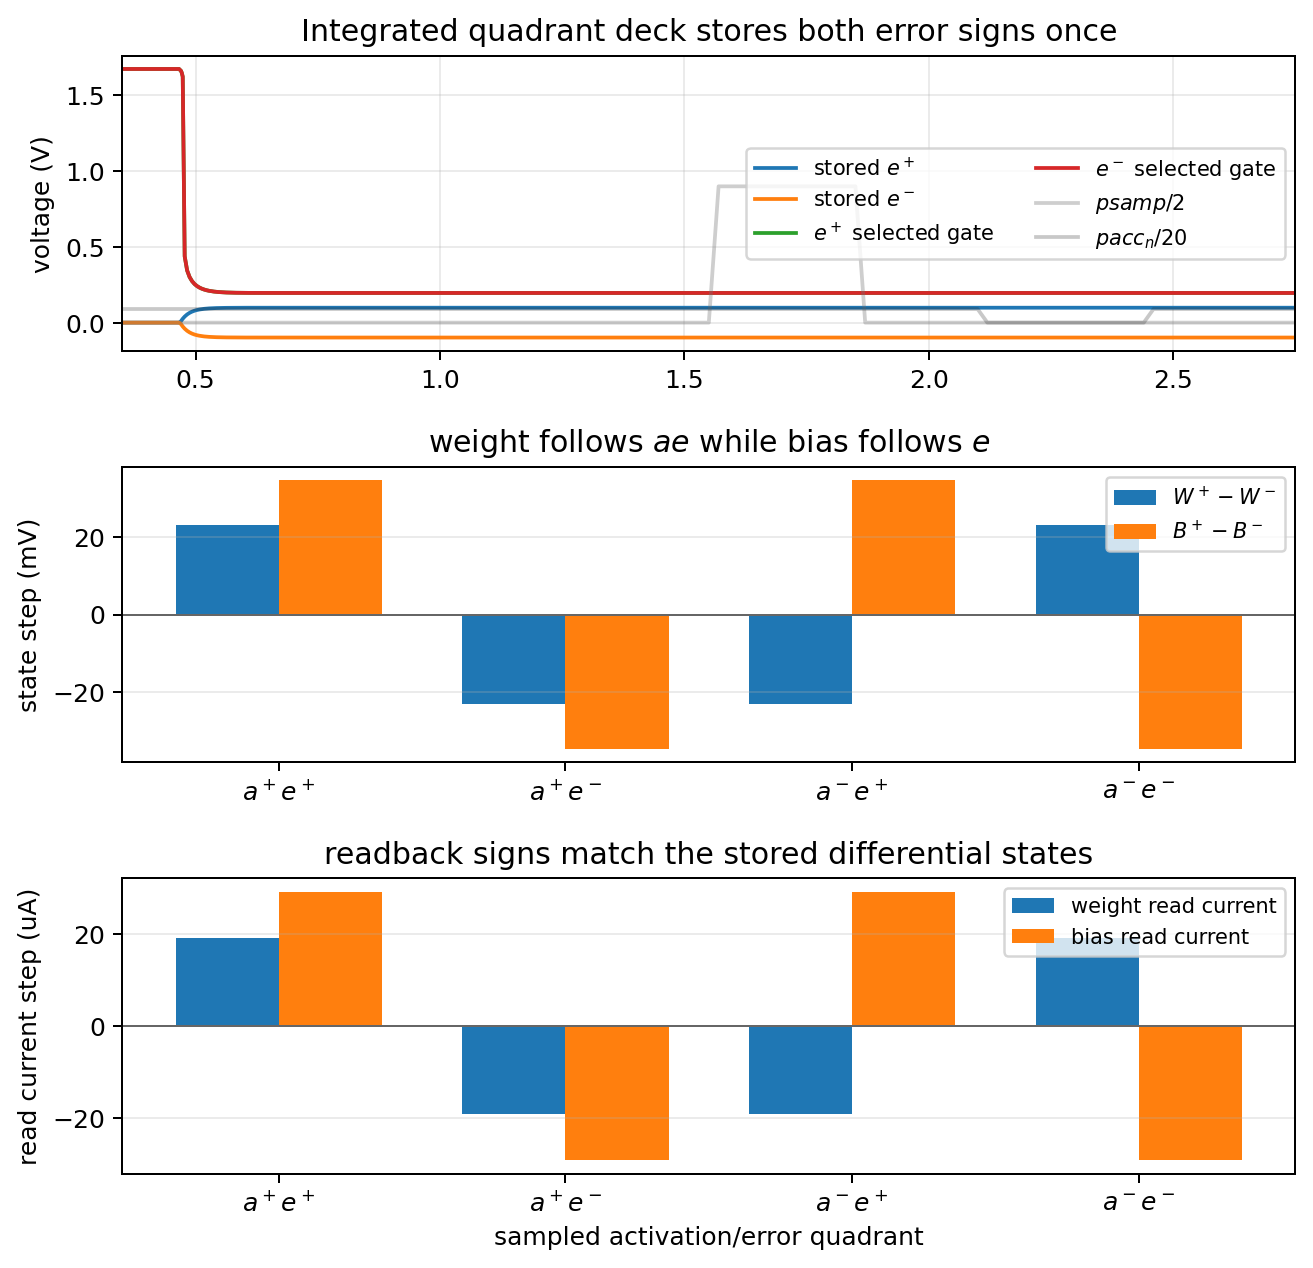
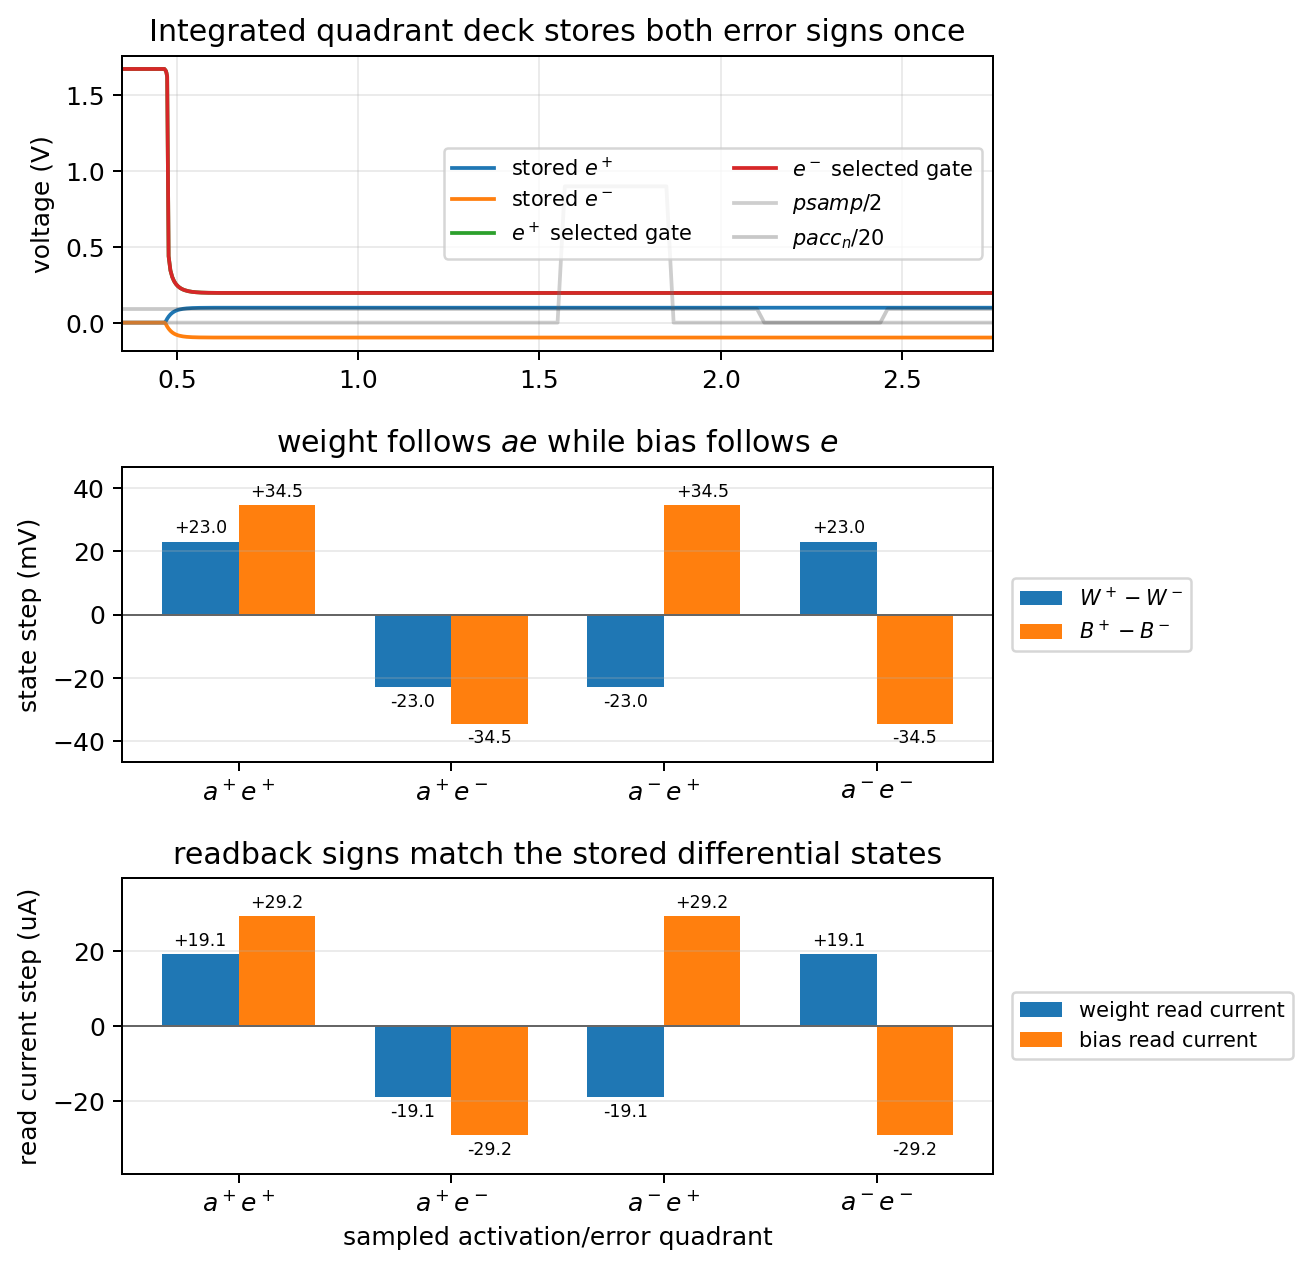
Clarify integrated quadrant plots

diff --git a/spice/run_mos_cell_characterization.py b/spice/run_mos_cell_characterization.py
@@ -6266,25 +6266,33 @@ quit
     hyz_axes[0].set_title("Integrated quadrant deck stores both error signs once")
     hyz_axes[0].grid(True, alpha=0.25)
     hyz_axes[0].legend(loc="center right", ncol=2, fontsize="small")
-    hyz_axes[1].bar(hyz_x - 0.18, 1e3 * hyz_weight_signed, width=0.36, label="$W^+ - W^-$")
-    hyz_axes[1].bar(hyz_x + 0.18, 1e3 * hyz_bias_signed, width=0.36, label="$B^+ - B^-$")
+    hyz_weight_bars = hyz_axes[1].bar(hyz_x - 0.18, 1e3 * hyz_weight_signed, width=0.36, label="$W^+ - W^-$")
+    hyz_bias_bars = hyz_axes[1].bar(hyz_x + 0.18, 1e3 * hyz_bias_signed, width=0.36, label="$B^+ - B^-$")
     hyz_axes[1].axhline(0, color="0.4", linewidth=0.8)
     hyz_axes[1].set_xticks(hyz_x)
     hyz_axes[1].set_xticklabels(hyz_labels)
     hyz_axes[1].set_ylabel("state step (mV)")
     hyz_axes[1].set_title("weight follows $ae$ while bias follows $e$")
+    hyz_state_max = max(1.0, float(1e3 * np.max(np.abs(np.concatenate([hyz_weight_signed, hyz_bias_signed])))))
+    hyz_axes[1].set_ylim(-1.35 * hyz_state_max, 1.35 * hyz_state_max)
+    hyz_axes[1].bar_label(hyz_weight_bars, labels=[f"{value:+.1f}" for value in 1e3 * hyz_weight_signed], padding=2, fontsize="x-small")
+    hyz_axes[1].bar_label(hyz_bias_bars, labels=[f"{value:+.1f}" for value in 1e3 * hyz_bias_signed], padding=2, fontsize="x-small")
     hyz_axes[1].grid(True, axis="y", alpha=0.25)
-    hyz_axes[1].legend(loc="upper right", fontsize="small")
-    hyz_axes[2].bar(hyz_x - 0.18, 1e6 * hyz_weight_read_step, width=0.36, label="weight read current")
-    hyz_axes[2].bar(hyz_x + 0.18, 1e6 * hyz_bias_read_step, width=0.36, label="bias read current")
+    hyz_axes[1].legend(loc="center left", bbox_to_anchor=(1.01, 0.5), fontsize="small")
+    hyz_weight_read_bars = hyz_axes[2].bar(hyz_x - 0.18, 1e6 * hyz_weight_read_step, width=0.36, label="weight read current")
+    hyz_bias_read_bars = hyz_axes[2].bar(hyz_x + 0.18, 1e6 * hyz_bias_read_step, width=0.36, label="bias read current")
     hyz_axes[2].axhline(0, color="0.4", linewidth=0.8)
     hyz_axes[2].set_xticks(hyz_x)
     hyz_axes[2].set_xticklabels(hyz_labels)
     hyz_axes[2].set_xlabel("sampled activation/error quadrant")
     hyz_axes[2].set_ylabel("read current step (uA)")
     hyz_axes[2].set_title("readback signs match the stored differential states")
+    hyz_read_max = max(1.0, float(1e6 * np.max(np.abs(np.concatenate([hyz_weight_read_step, hyz_bias_read_step])))))
+    hyz_axes[2].set_ylim(-1.35 * hyz_read_max, 1.35 * hyz_read_max)
+    hyz_axes[2].bar_label(hyz_weight_read_bars, labels=[f"{value:+.1f}" for value in 1e6 * hyz_weight_read_step], padding=2, fontsize="x-small")
+    hyz_axes[2].bar_label(hyz_bias_read_bars, labels=[f"{value:+.1f}" for value in 1e6 * hyz_bias_read_step], padding=2, fontsize="x-small")
     hyz_axes[2].grid(True, axis="y", alpha=0.25)
-    hyz_axes[2].legend(loc="upper right", fontsize="small")
+    hyz_axes[2].legend(loc="center left", bbox_to_anchor=(1.01, 0.5), fontsize="small")
     hyz_fig.tight_layout()
     save_plot(hyz_fig, "mos_hidden_writer_restored_gate_hybrid_cell_quadrants_ngspice")
 
@@ -6737,26 +6745,35 @@ quit
     hyf_axes[0].set_title("Four matched copies store both error signs once")
     hyf_axes[0].grid(True, alpha=0.25)
     hyf_axes[0].legend(loc="center right", ncol=2, fontsize="small")
-    hyf_axes[1].bar(hyf_x - 0.18, 1e3 * hyf_weight, width=0.36, label="$W^+ - W^-$")
-    hyf_axes[1].bar(hyf_x + 0.18, 1e3 * hyf_bias, width=0.36, label="$B^+ - B^-$")
+    hyf_weight_bars = hyf_axes[1].bar(hyf_x - 0.18, 1e3 * hyf_weight, width=0.36, label="$W^+ - W^-$")
+    hyf_bias_bars = hyf_axes[1].bar(hyf_x + 0.18, 1e3 * hyf_bias, width=0.36, label="$B^+ - B^-$")
     hyf_axes[1].axhline(0, color="0.4", linewidth=0.8)
     hyf_axes[1].set_xticks(hyf_x)
     hyf_axes[1].set_xticklabels(hyf_labels)
     hyf_axes[1].set_ylabel("state step (mV)")
     hyf_axes[1].set_title("local update writes signed W/B capacitor states")
+    hyf_state_max = max(1.0, float(1e3 * np.max(np.abs(np.concatenate([hyf_weight, hyf_bias])))))
+    hyf_axes[1].set_ylim(-1.35 * hyf_state_max, 1.35 * hyf_state_max)
+    hyf_axes[1].bar_label(hyf_weight_bars, labels=[f"{value:+.1f}" for value in 1e3 * hyf_weight], padding=2, fontsize="x-small")
+    hyf_axes[1].bar_label(hyf_bias_bars, labels=[f"{value:+.1f}" for value in 1e3 * hyf_bias], padding=2, fontsize="x-small")
     hyf_axes[1].grid(True, axis="y", alpha=0.25)
-    hyf_axes[1].legend(loc="upper right", fontsize="small")
-    hyf_axes[2].bar(hyf_x - 0.24, 1e3 * hyf_preact, width=0.24, label="$z^- - z^+$")
-    hyf_axes[2].bar(hyf_x, 1e3 * hyf_forward_load, width=0.24, label="forward load")
-    hyf_axes[2].bar(hyf_x + 0.24, 1e3 * hyf_forward_store, width=0.24, label="stored activation")
+    hyf_axes[1].legend(loc="center left", bbox_to_anchor=(1.01, 0.5), fontsize="small")
+    hyf_preact_bars = hyf_axes[2].bar(hyf_x - 0.24, 1e3 * hyf_preact, width=0.24, label="$z^- - z^+$")
+    hyf_load_bars = hyf_axes[2].bar(hyf_x, 1e3 * hyf_forward_load, width=0.24, label="forward load")
+    hyf_store_bars = hyf_axes[2].bar(hyf_x + 0.24, 1e3 * hyf_forward_store, width=0.24, label="stored activation")
     hyf_axes[2].axhline(0, color="0.4", linewidth=0.8)
     hyf_axes[2].set_xticks(hyf_x)
     hyf_axes[2].set_xticklabels(hyf_labels)
     hyf_axes[2].set_xlabel("sampled activation/error quadrant")
     hyf_axes[2].set_ylabel("differential (mV)")
     hyf_axes[2].set_title("read, forward pair, and activation store follow the error sign")
+    hyf_forward_max = max(1.0, float(1e3 * np.max(np.abs(np.concatenate([hyf_preact, hyf_forward_load, hyf_forward_store])))))
+    hyf_axes[2].set_ylim(-1.35 * hyf_forward_max, 1.35 * hyf_forward_max)
+    hyf_axes[2].bar_label(hyf_preact_bars, labels=[f"{value:+.1f}" for value in 1e3 * hyf_preact], padding=2, fontsize="x-small")
+    hyf_axes[2].bar_label(hyf_load_bars, labels=[f"{value:+.1f}" for value in 1e3 * hyf_forward_load], padding=2, fontsize="x-small")
+    hyf_axes[2].bar_label(hyf_store_bars, labels=[f"{value:+.1f}" for value in 1e3 * hyf_forward_store], padding=2, fontsize="x-small")
     hyf_axes[2].grid(True, axis="y", alpha=0.25)
-    hyf_axes[2].legend(loc="upper right", fontsize="small")
+    hyf_axes[2].legend(loc="center left", bbox_to_anchor=(1.01, 0.5), fontsize="small")
     hyf_fig.tight_layout()
     save_plot(hyf_fig, "mos_hidden_writer_restored_gate_hybrid_update_forward_quadrants_ngspice")
 

diff --git a/docs/spicenn_progress_note.tex b/docs/spicenn_progress_note.tex
@@ -1287,7 +1287,9 @@ must satisfy before it can replace the current behavioral prototype.
   \(+29.17\), \(-29.17\), \(+29.17\), and \(-29.17\,\mu\)A.  This does not
   yet make a full transistor MNIST cell, but it closes the signed local-update
   routing contract for the weight and local-bias state roles without
-  behavioral update sources.}
+  behavioral update sources.  The plotted bars are labeled with the measured
+  final values so each quadrant remains auditable without relying on the
+  caption text alone.}
   \label{fig:mos-hidden-writer-restored-gate-hybrid-cell-quadrants-ngspice}
 \end{figure}
 
@@ -1337,7 +1339,9 @@ must satisfy before it can replace the current behavioral prototype.
   and the held activations are \(+47.35\), \(-47.35\), \(+47.35\), and
   \(-47.35\) mV.  This closes the quadrant gap left by the one-sample
   update-forward plot: signed local writes now round-trip through the MOS
-  forward path with the expected sign in every activation/error quadrant.}
+  forward path with the expected sign in every activation/error quadrant.  The
+  plotted bar labels expose the measured write, summing, forward-load, and
+  stored-activation values directly for each quadrant.}
   \label{fig:mos-hidden-writer-restored-gate-hybrid-update-forward-quadrants-ngspice}
 \end{figure}
 

diff --git a/engineering_log.md b/engineering_log.md
@@ -2,6 +2,16 @@
 
 ## 2026-05-25
 
+- Family-completed the quadrant-plot readability fix for the integrated hybrid
+  local-feature evidence.  The one-level hidden-writer quadrant plot already
+  had an explicit final-value panel, but the deeper integrated
+  update/readback and update-to-forward quadrant figures still placed legends
+  over the fourth-quadrant bars.  The regenerated ngspice plots now move those
+  legends out of the data area and label the measured bar values directly:
+  \(W/B=\pm23.0/\pm34.5\) mV, readback \(=\pm19.1/\pm29.2\,\mu\mathrm{A}\),
+  and update-forward \(z/\mathrm{load}/h=\pm50.8/\pm61.5/\pm47.3\) mV.  This
+  makes the full integrated sign-family evidence auditable from the figures
+  themselves.
 - Clarified the ngspice four-quadrant hidden-error writer plot after the
   circuit assertions were stronger than the visual evidence.  The four products
   still come from the same MOS-only deck and measure
